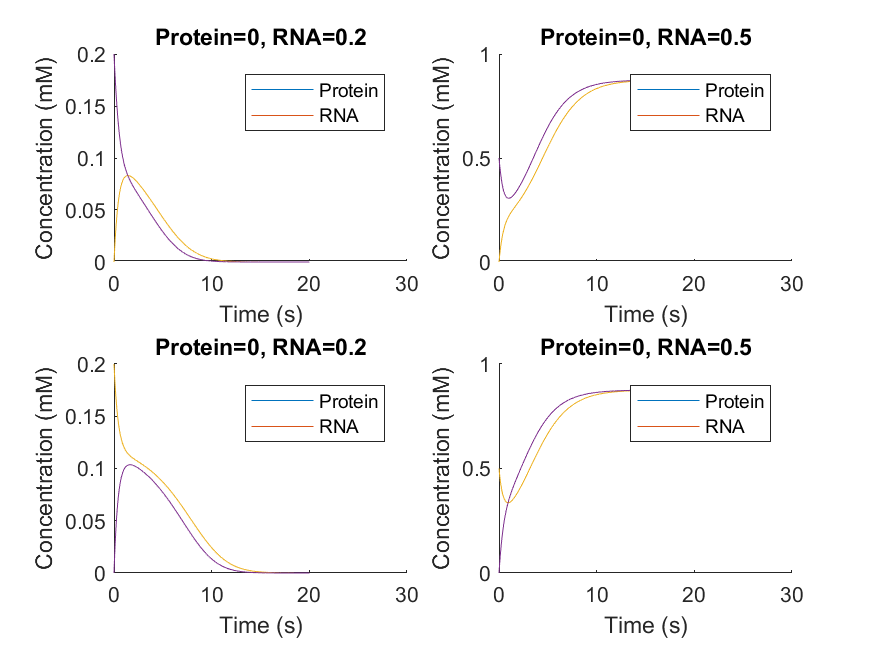
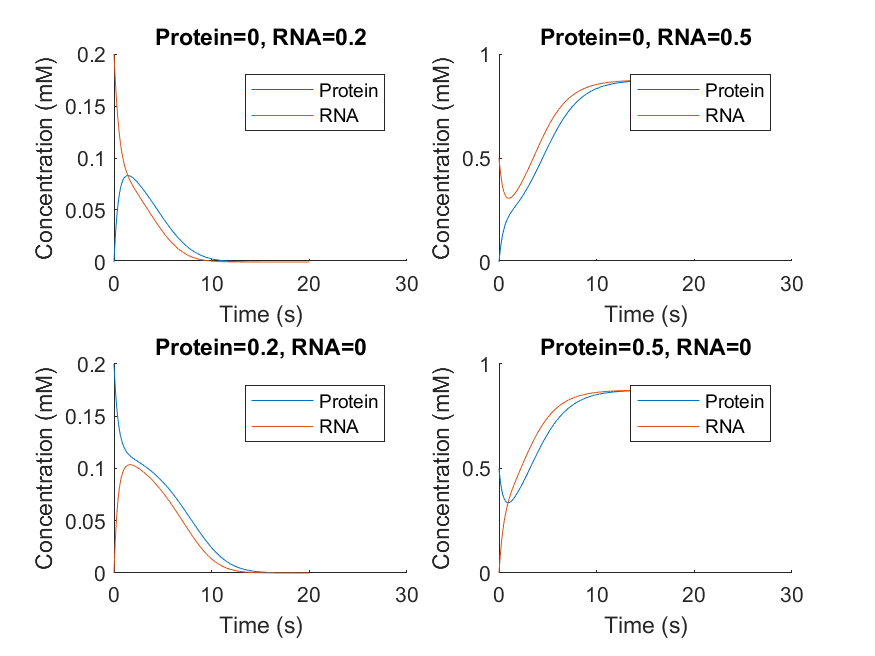
Fixed plot colors in exercise 2.

diff --git a/Ex2.m b/Ex2.m
@@ -51,7 +51,7 @@ for i = 1 : length(init2)
    hold on
    plot(time, prot);
    plot(time, rna);
-   timeVsConcentrationSettings(figureNum, "Protein=" + init1 + ", RNA=" + init2(i));
+   timeVsConcentrationSettings(figureNum, "Protein=" + init2(i) + ", RNA=" + init1);
    hold off
 end
 saveas(f, "Ex2Part2.png");
@@ -107,7 +107,6 @@ end
 function timeVsConcentrationSettings(figureNum, t)
     X_LABEL = "Time (s)";
     Y_LABEL = "Concentration (mM)";
-    labels = ["Protein", "RNA"];
     figure(figureNum);
     xlabel(X_LABEL);
     ylabel(Y_LABEL);
